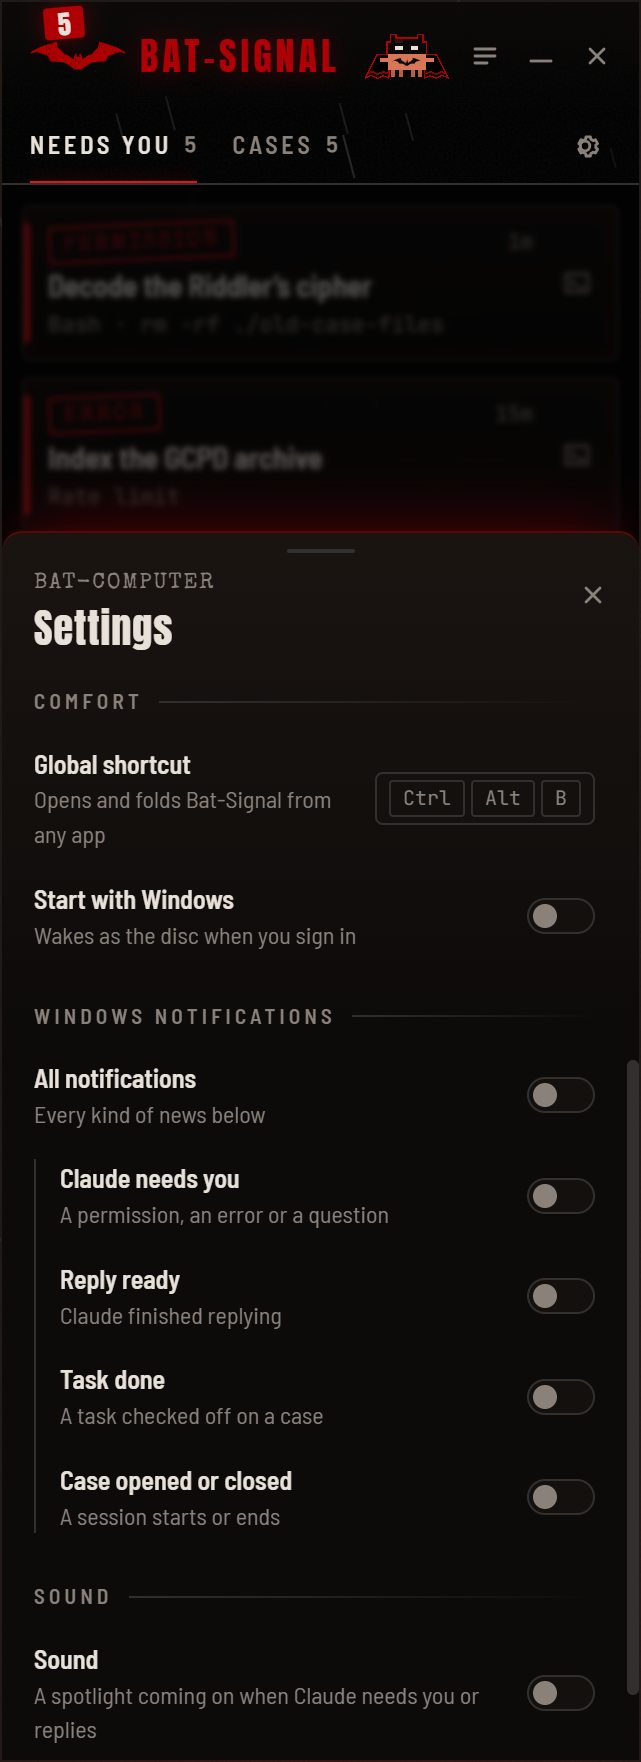
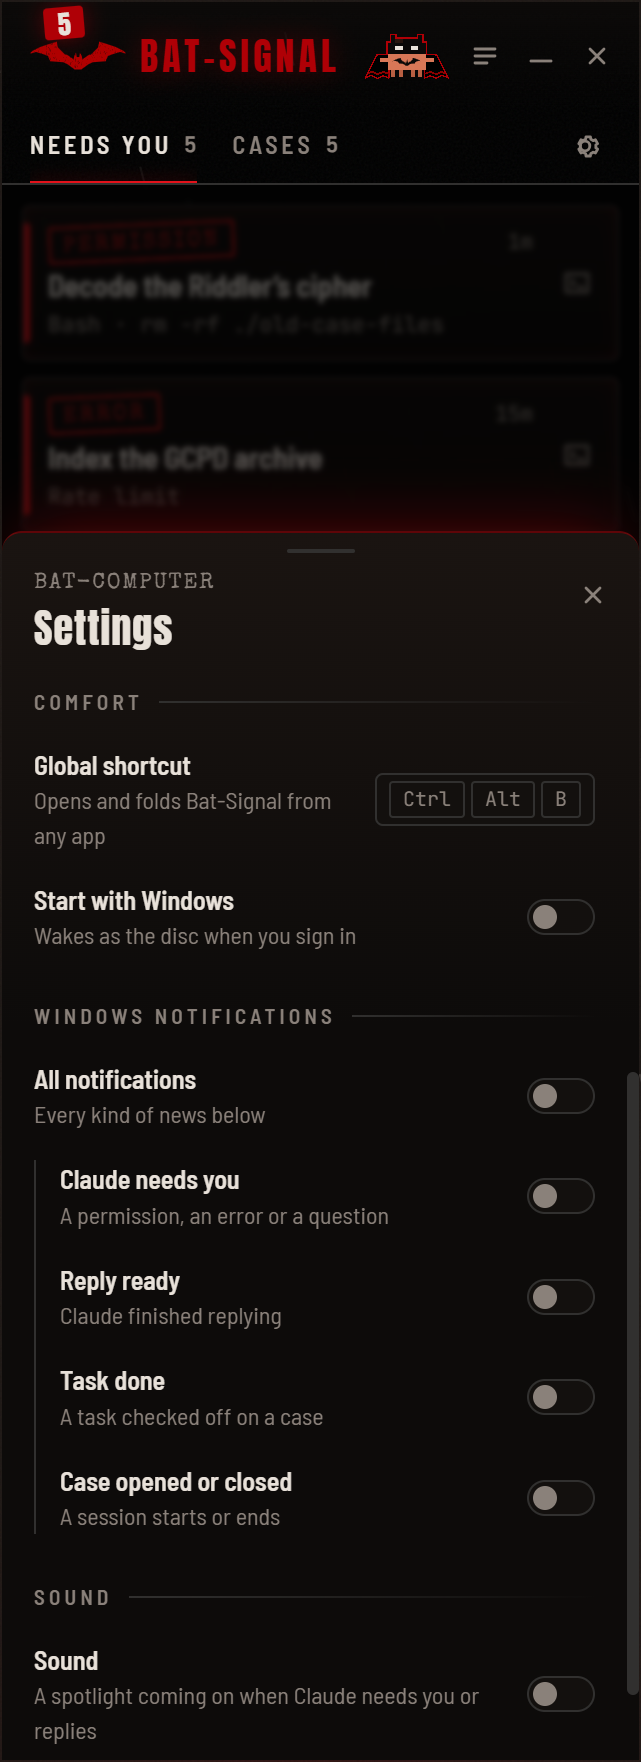
fix(settings): the Theme words hint names Needs you too
The switch also brings back the standard Needs you (and the states),
which the hint left out and the CHANGELOG names; it now reads "The
Theme's own names for cases, Needs you and the stamps", Needs you
through the Terms like cases. The two settings shots take the longer
hint.

Refs #76

diff --git a/app/src/shared/words.ts b/app/src/shared/words.ts
@@ -368,7 +368,7 @@ export const STANDARD_VOICE: Voice = {
     atmosphere: { label: 'Rain', hint: (t) => `Gotham weather behind the ${lower(t.case.many)}` },
     lexicon: {
       label: 'Theme words',
-      hint: (t) => `The Theme's own names for ${lower(t.case.many)} and stamps`,
+      hint: (t) => `The Theme's own names for ${lower(t.case.many)}, ${t.needsYou.label} and the stamps`,
     },
     // "Case files" and "Night report" are the two Layouts' names (CONTEXT.md, Layout), not the Case
     // term: a Lexicon that renames Case doesn't rename the Layout.
